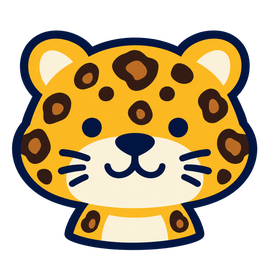
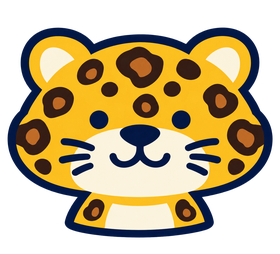
Fuller animals and a piece tile that stops looking like a button
The lily grows again, to 104% -- it may overhang its cell because the
water is one continuous pool and there is nothing beside it to collide
with.

Codex redrew the cat, wolf, leopard and lion. They were narrower than
the tiger, elephant, dog and rat and read as thin beside them; the
species cues are unchanged. The old four are kept in _prev/ in case the
new ones turn out worse.

On the question of dropping the cream card and letting an occupied
square turn cream outright: the review says no, and its reason is better
than the one I had. I argued from losing the territory colour. It argued
that this would state "the piece changed the terrain" rather than "the
piece is standing on it" -- and terrain is exactly what matters when a
piece is on it. A rat in the river has to be seen to be in the river,
because that is what makes it uncatchable from the bank; a piece in a
trap has to be seen to be in the trap, because that is what makes it
rank zero; reaching a den has to look like reaching a den. Those three
squares are the rules. I had only thought about the grass.

Its third option is what shipped: keep the two layers, stop decorating
the upper one. The tile goes from 86%x85% of the cell to 91%x88%, leaving
a 3px rim of territory colour, and its radius drops from 7 to 4. The
button feel came from thick padding, its own outline, a large radius and
one rounded box inside another -- not from there being two layers.
[…]

Changed region(s): [[0.0, 0.0827, 0.9963, 0.937], [0.7619, 0.248, 0.7912, 0.2756]]

diff --git a/art/preview.html b/art/preview.html
@@ -18,9 +18,12 @@
     --cell-radius: calc(var(--cell-h) * 8 / 52);
     --board-frame: calc(var(--cell-h) * 20 / 52);
 
-    --piece-w: calc(var(--cell-w) * 60 / 70);
-    --piece-h: calc(var(--cell-h) * 44 / 52);
-    --piece-radius: calc(var(--cell-h) * 7 / 52);
+    /* 棋子牌扩到格子的 ~92%，只留 3px 领地色「地形缝」。
+       圆角从 7 收到 4：按钮感主要来自「粗留白 + 独立描边 + 大圆角 +
+       层层轮廓」，不单纯来自两层结构。 */
+    --piece-w: calc(var(--cell-w) * 64 / 70);
+    --piece-h: calc(var(--cell-h) * 46 / 52);
+    --piece-radius: calc(var(--cell-h) * 4 / 52);
     --label-size: calc(var(--cell-h) * 0.18);
     --river-text: calc(var(--cell-h) * 0.25);
 
@@ -159,7 +162,7 @@
     let bg = '';
     if (isWater(i)) { sq.classList.add('water');
       if (isCroc(i)) sq.appendChild(terr(A + 'croc.png', 124, 124));
-      else if (LILY.includes(i)) sq.appendChild(terr(A + 'lily.png', 84, 84));
+      else if (LILY.includes(i)) sq.appendChild(terr(A + 'lily.png', 104, 104));
     } else if (i === idx(3,8)) { bg = 'var(--den-bg)'; sq.appendChild(terr(A + 'den-mine.png', 92, 100)); }
     else if (i === idx(3,0)) { bg = 'var(--den-bg)'; sq.appendChild(terr(A + 'den-foe.png', 92, 100, true)); }
     // 陷阱：两边各自朝向自己的兽穴。翻红方（上方）这一侧。
